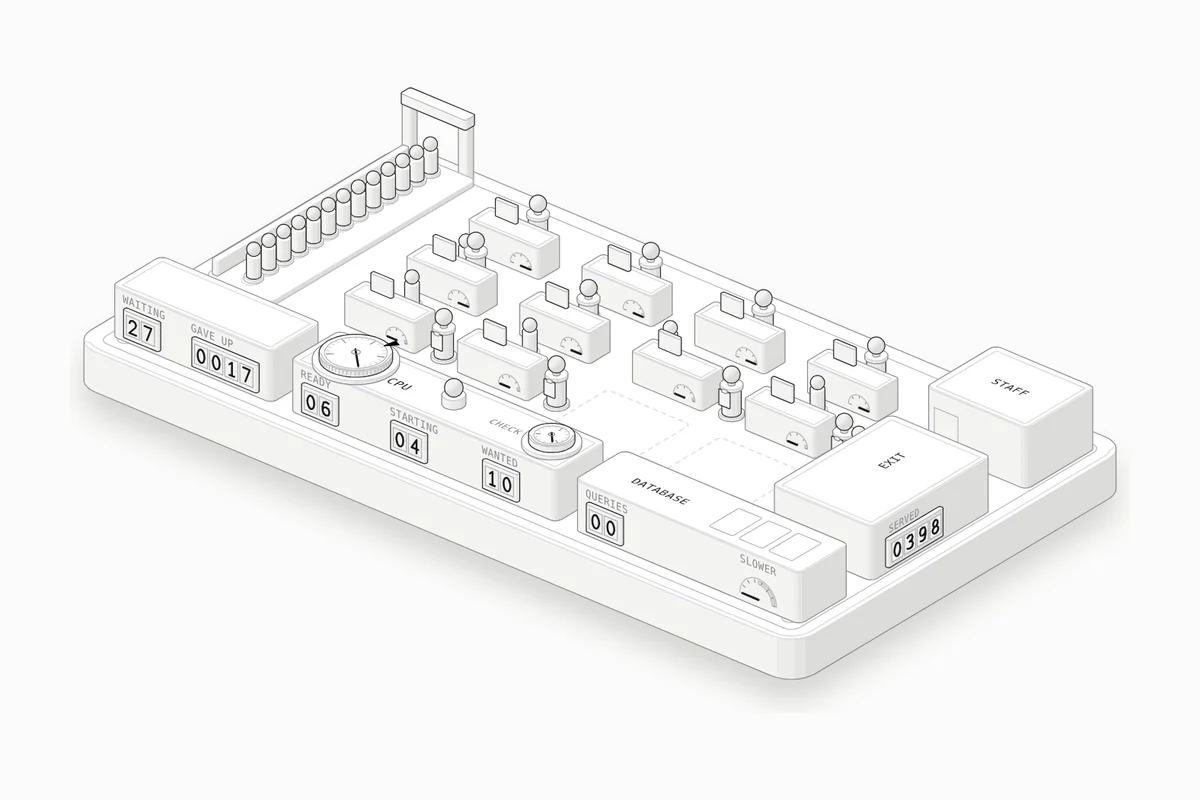
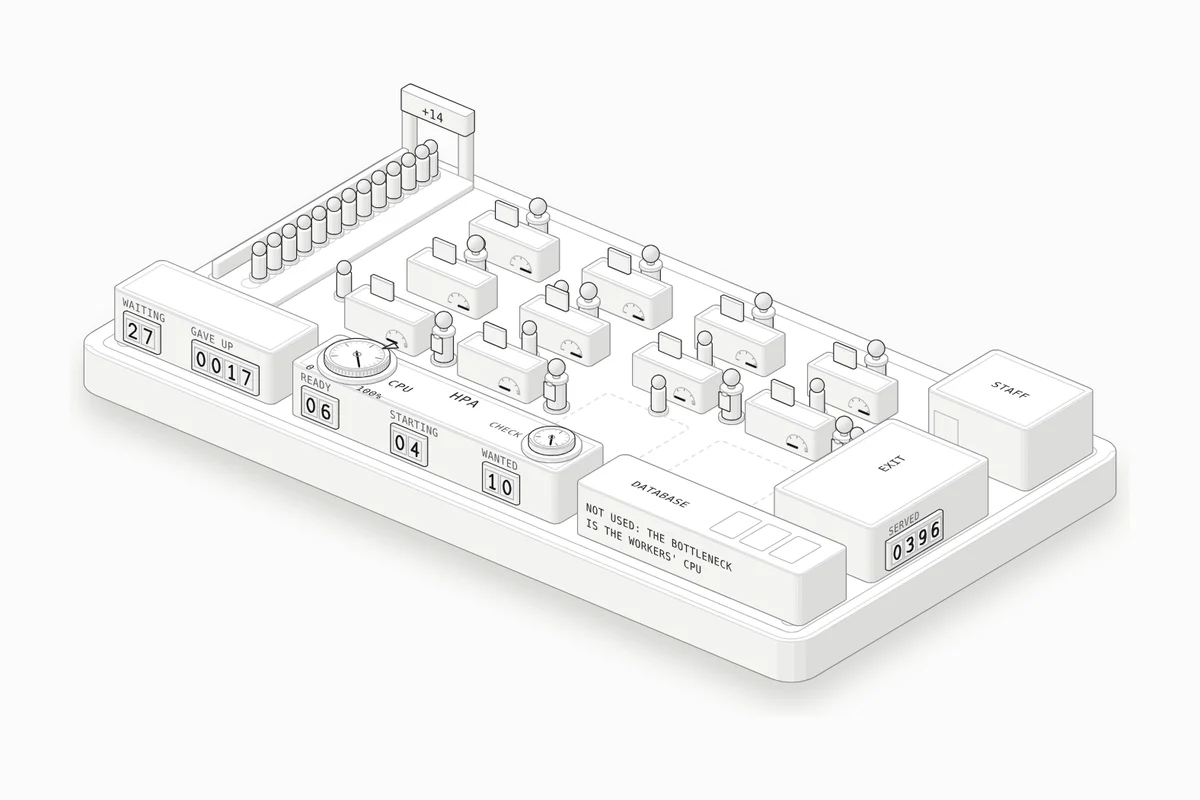
Lesson 75: fix review findings (+N at the gate, HPA named, lit only for give-ups, dial ends, idle database note, DESEADOS, page weight, shorter caption, Watch timing)
Claude-Session: https://claude.ai/code/session_01S5z2gCvevbrGU3fXgpGDmP

diff --git a/src/lessons/autoscaling/figure.ts b/src/lessons/autoscaling/figure.ts
@@ -3,11 +3,13 @@
 // line down the left side; twelve desk plots fill the floor (maxReplicas), and each desk that is open has one worker (a
 // pod) who serves one customer at a time, then the customer leaves through the exit stand on the right. A new worker
 // stands beside the desk with a clipboard until ready; a sent-home worker walks back to the staff room. Along the front:
-// the door counters (waiting, gave up), the autoscaler (its reading on a dial against the target, the next check, and
-// ready / starting / wanted counters) and the database (queries at once, how much slower each runs).
+// the door counters (waiting, gave up), the autoscaler, the HPA (its reading on a dial against the target, the next
+// check, and ready / starting / wanted counters) and the database (queries at once, how much slower each runs).
+// The workers are drawn once (page data) and placed at each desk by the live code: twelve copies of each pose would
+// double the page.
 // Built with the Anatomy kit (MIT, github.com/wheresryan22/anatomy) and the shared workbench parts.
 import * as k from "../../../workbench/kit.mjs";
-import { basePlate, digitCounter, person, figurine, dial, meter, faceText, lamp, litFill } from "../../../workbench/parts.mjs";
+import { basePlate, digitCounter, person, figurine, dial, meter, faceText, litFill } from "../../../workbench/parts.mjs";
 import { t } from "../../../workbench/i18n.mjs";
 import { shorthand } from "../../lib/draw";
 import { MAX_R } from "./sim";
@@ -49,13 +51,13 @@ const FRONT_Y = 15, FRONT_D = 20, FRONT_H = 15;
 const DOOR = { x: -116, y: FRONT_Y, w: 54, d: FRONT_D, r: 2 };
 const CTRL = { x: -56, y: FRONT_Y, w: 90, d: FRONT_D, r: 2 };
 const DB = { x: 40, y: FRONT_Y, w: 76, d: FRONT_D, r: 2 };
-export const READ_DIAL = { x: CTRL.x + 14, y: CTRL.y + 10, r: 9.5, from: -0.75 * Math.PI, span: 1.5 * Math.PI };
+export const READ_DIAL = { x: CTRL.x + 14, y: CTRL.y + 9.5, r: 8.5, from: -0.75 * Math.PI, span: 1.5 * Math.PI };
 export const TARGETS = [0.6, 0.75, 0.9];
-// The target: a small wedge just outside the dial's rim, at the target's place on the scale.
+// The target: a small hollow wedge just outside the dial's rim, at the target's place on the scale.
 function targetMark(frac) {
-  const d = READ_DIAL, a = d.from + frac * d.span, w = 0.09;
+  const d = READ_DIAL, a = d.from + frac * d.span, w = 0.12;
   const pt = (ang, r) => [d.x + Math.sin(ang) * r, d.y - Math.cos(ang) * r];
-  return k.pathOf([pt(a, d.r - 1.6), pt(a - w, d.r + 2.2), pt(a + w, d.r + 2.2)].map(([x, y]) => k.iso([x, y, FRONT_H + 3.3], P)), true);
+  return k.pathOf([pt(a, d.r - 1.4), pt(a - w, d.r + 2.6), pt(a + w, d.r + 2.6)].map(([x, y]) => k.iso([x, y, FRONT_H + 3.3], P)), true);
 }
 export const CHECK_DIAL = { x: CTRL.x + 80, y: CTRL.y + 10, r: 6 };
 
@@ -74,7 +76,7 @@ function plate() {
 }
 
 // The line: a low lane with a rail along its back side and a footprint for each place; the gate at its back end
-// where customers come in.
+// where customers come in, its lintel carrying a "+N" for those waiting beyond the drawn places.
 function lane() {
   const out = [S(k.slabOf(LANE, 0, LANE_H, P, 3, 0.3), { tone: "lo", crease: "none" })];
   out.push(L(Array.from({ length: LINE_SLOTS }, (_, i) => { const [x, y] = LINE_AT(i); return k.ring(x, y, 2.6, LANE_H, P, 14); }).join(""), { tone: "faint" }));
@@ -85,8 +87,9 @@ function gate() {
   // two posts and a lintel across the back of the lane
   const y = LANE.y + 2;
   const out = [];
-  for (const x of [LANE.x + 1.5, LANE.x + LANE.w - 1.5]) out.push(S(k.slabOf({ x: x - 1.5, y: y - 1.5, w: 3, d: 3, r: 0.4 }, 0, 18, P, 2), { tone: "mid", crease: "none" }));
-  out.push(S(k.slabOf({ x: LANE.x, y: y - 2, w: LANE.w, d: 4, r: 0.6 }, 18, 3, P, 2), { tone: "hi", crease: "lo" }));
+  for (const x of [LANE.x + 1.5, LANE.x + LANE.w - 1.5]) out.push(S(k.slabOf({ x: x - 1.5, y: y - 1.5, w: 3, d: 3, r: 0.4 }, 0, 17, P, 2), { tone: "mid", crease: "none" }));
+  out.push(S(k.slabOf({ x: LANE.x, y: y - 2, w: LANE.w, d: 4, r: 0.6 }, 17, 6, P, 2), { tone: "hi", crease: "lo" }));
+  out.push(faceText(P, [LANE.x + LANE.w / 2, y + 2, 18.3], "", { size: 3.8, tone: "hi", anchor: "middle", attr: "data-more" }));
   return out.join("");
 }
 
@@ -116,18 +119,18 @@ function plot(i) {
   const s = SLOTS[i];
   return `<g data-plot="${i}">${L(k.planOutline({ x: s.cx - DESK.w / 2 - 2, y: s.y - DESK.d - 9, w: DESK.w + 4, d: DESK.d + 18, r: 1.5 }, 0, P), { tone: "faint", dashed: true })}</g>`;
 }
-function worker(i) {
-  const s = SLOTS[i];
-  const behind = WORKER_AT(s);
-  // the slip a worker holds while its request waits on the database (the same slip person() draws for holding: "slip")
-  const sc = WORKER_SCALE, [x, y] = behind;
-  const slip = S(k.slabOf({ x: x - 4.2 * sc, y: y + 4.6 * sc, w: 8.4 * sc, d: 0.5 * sc, r: 0.15 * sc }, 7 * sc, 7 * sc, P, 1, 0.2 * sc), { tone: "hi", crease: "lo" });
-  return `<g data-worker="${i}" style="display:none">${person(P, behind, { scale: sc })}<g data-slip="${i}" style="display:none">${slip}</g></g>`;
+// A desk's worker and its newcomer: empty groups the live code fills with the drawings below and moves into place.
+const worker = (i) => `<g data-worker="${i}" style="display:none"></g>`;
+const newcomer = (i) => `<g data-new="${i}" style="display:none"></g>`;
+// The worker behind a desk, drawn at the origin, with the slip it holds while its request waits on the database (the
+// same slip person() draws for holding: "slip").
+export function deskWorkerSvg() {
+  const sc = WORKER_SCALE;
+  const slip = S(k.slabOf({ x: -4.2 * sc, y: 4.6 * sc, w: 8.4 * sc, d: 0.5 * sc, r: 0.15 * sc }, 7 * sc, 7 * sc, P, 1, 0.2 * sc), { tone: "hi", crease: "lo" });
+  return `${person(P, [0, 0, 0], { scale: sc })}<g data-slip style="display:none">${slip}</g>`;
 }
-function newcomer(i) {
-  const s = SLOTS[i];
-  return `<g data-new="${i}" style="display:none">${person(P, SIDE_AT(s), { scale: WORKER_SCALE, holding: "clipboard" })}</g>`;
-}
+// A new worker with a clipboard, drawn at the origin.
+export const newcomerSvg = () => person(P, [0, 0, 0], { scale: WORKER_SCALE, holding: "clipboard" });
 function desk(i) {
   const s = SLOTS[i];
   const plan = { x: s.cx - DESK.w / 2, y: s.y - DESK.d, w: DESK.w, d: DESK.d, r: 1 };
@@ -152,23 +155,24 @@ function door() {
   return out.join("");
 }
 
-// The autoscaler: the reading on a dial against the target (the lit wedge), the time to the next check on a small dial,
-// a lamp that lights when it changes the count, and its counters.
+// The autoscaler, the HPA: the reading on a dial against the target (a hollow wedge), the time to the next check on a
+// small dial, and its counters.
 function controller() {
   const out = [S(k.slabOf(CTRL, 0, FRONT_H, P, 3, 0.6), { tone: "mid" })];
   out.push(L(k.planOutline(k.insetPlan(CTRL, 2), FRONT_H, P), { tone: "faint" }));
   const d = READ_DIAL;
   out.push(dial(P, { x: d.x, y: d.y, z: FRONT_H, r: d.r, h: 3, ticks: 20, every: 5, from: d.from, span: d.span, name: "reading", value: 0.5 }));
   for (const frac of TARGETS) out.push(`<path class="as-target" data-target="${frac}"${frac === 0.6 ? "" : ' style="display:none"'} d="${targetMark(frac)}"/>`);
+  // the scale's ends: 0 at the front left, 100% at the front right
+  for (const [a, v, anchor] of [[d.from, "0", "end"], [d.from + d.span, "100%", "start"]]) out.push(faceText(P, [d.x + Math.sin(a) * (d.r + 3.2) + (anchor === "end" ? 0.8 : -0.8), d.y - Math.cos(a) * (d.r + 3.2) + 1.6, FRONT_H], v, { face: "top", size: CAP, tone: "hi", anchor }));
   out.push(dial(P, { x: CHECK_DIAL.x, y: CHECK_DIAL.y, z: FRONT_H, r: CHECK_DIAL.r, h: 3, ticks: 15, every: 5, name: "check", value: 0, knurl: false }));
   // words on the top, beside each dial
   out.push(`<g data-metric-word="cpu">${faceText(P, [d.x + 12, d.y + 2.6, FRONT_H], "CPU", { face: "top", size: CAP + 0.6, tone: "hi" })}</g>`);
   out.push(`<g data-metric-word="busy" style="display:none">${faceText(P, [d.x + 12, d.y + 2.6, FRONT_H], t("BUSY", "OCUPADO"), { face: "top", size: CAP + 0.6, tone: "hi" })}</g>`);
   out.push(faceText(P, [CHECK_DIAL.x - 10, CHECK_DIAL.y + 1.6, FRONT_H], t("CHECK", "REVISIÓN"), { face: "top", size: CAP, tone: "mid", anchor: "end" }));
-  out.push(`<g data-scale-lamp="off">${lamp(P, [CTRL.x + 47, CTRL.y + 10, FRONT_H], { r: 2.4 })}</g>`);
-  out.push(`<g data-scale-lamp="on" style="display:none">${litFill(lamp(P, [CTRL.x + 47, CTRL.y + 10, FRONT_H], { r: 2.4, lit: true }))}</g>`);
+  out.push(faceText(P, [CTRL.x + 47, CTRL.y + 7, FRONT_H], "HPA", { face: "top", size: CAP + 1.4, tone: "hi", anchor: "middle" }));
   const f = CTRL.y + CTRL.d;
-  const cols = [[CTRL.x + 5, "ready", t("READY", "LISTOS")], [CTRL.x + 35, "starting", t("STARTING", "ARRANCANDO")], [CTRL.x + 66, "wanted", t("WANTED", "PEDIDOS")]];
+  const cols = [[CTRL.x + 5, "ready", t("READY", "LISTOS")], [CTRL.x + 35, "starting", t("STARTING", "ARRANCANDO")], [CTRL.x + 66, "wanted", t("WANTED", "DESEADOS")]];
   for (const [x, name, words] of cols) {
     out.push(digitCounter(P, { x, y: f, z: 2.2, count: 2, w: 4.4, h: 5.8, gap: 0.7, pad: 1.2, name }));
     out.push(caption(x - 1.2, f, 11.4, words));
@@ -186,10 +190,16 @@ function database() {
   out.push(L(drawers.join(""), { tone: "lo" }));
   out.push(faceText(P, [DB.x + 21, DB.y + 11.6, FRONT_H], t("DATABASE", "BASE DE DATOS"), { face: "top", size: CAP + 0.4, tone: "hi", anchor: "middle" }));
   const f = DB.y + DB.d;
+  out.push(`<g data-db="on" style="display:none">`);
   out.push(digitCounter(P, { x: DB.x + 5, y: f, z: 2.2, count: 2, w: 4.4, h: 5.8, gap: 0.7, pad: 1.2, name: "queries" }));
   out.push(caption(DB.x + 3.8, f, 11.4, t("QUERIES", "CONSULTAS")));
   out.push(meter(P, { x: DB.x + 62, y: f, z: 2.2, r: 6.2, ticks: 7, zone: 0.5, name: "slow" }));
   out.push(caption(DB.x + 62, f, 11.4, t("SLOWER", "MÁS LENTA"), { anchor: "middle" }));
+  out.push(`</g><g data-db="off">`);
+  // with the workers' CPU as the bottleneck the requests make no queries: say so rather than show idle dials
+  out.push(caption(DB.x + 4, f, 8.2, t("NOT USED: THE BOTTLENECK", "SIN USO: EL CUELLO DE BOTELLA"), { tone: "hi" }));
+  out.push(caption(DB.x + 4, f, 3.6, t("IS THE WORKERS' CPU", "ES LA CPU DE LOS TRABAJADORES"), { tone: "hi" }));
+  out.push(`</g>`);
   return out.join("");
 }
 
@@ -211,8 +221,8 @@ export function buildFigure() {
     width: WIDTH,
     height: HEIGHT,
     label: t(
-      "A service floor with an autoscaler, on a base plate. Customers (requests) come in through a gate at the back left and wait in one line down the left side. Twelve desk plots fill the floor, the most workers the floor can hold; an open desk has one worker, a pod, who serves one customer at a time, and served customers leave through the exit stand on the right, which counts them. A new worker stands beside the desk with a clipboard until ready; a worker sent home walks back to the staff room at the back right. Along the front: the door counters for customers waiting and customers who gave up, the autoscaler with a dial showing the workers' average reading against a lit target mark, a small dial counting down to its next check and counters for ready, starting and wanted workers, and the database with a counter of queries running at once and a meter of how much slower each one runs.",
-      "Un piso de atención con un autoescalador, sobre una placa base. Los clientes (solicitudes) entran por una puerta atrás a la izquierda y esperan en una sola fila por el lado izquierdo. Doce lugares para escritorios llenan el piso, la mayor cantidad de trabajadores que cabe; un escritorio abierto tiene un trabajador, un pod, que atiende a un cliente a la vez, y los clientes atendidos salen por el puesto de salida de la derecha, que los cuenta. Un trabajador nuevo espera junto al escritorio con una tablilla hasta estar listo; un trabajador que se manda a casa vuelve caminando a la sala del personal, atrás a la derecha. Al frente: los contadores de la puerta para los clientes en espera y los que se rindieron, el autoescalador con un dial que muestra la lectura promedio de los trabajadores frente a una marca encendida del objetivo, un dial pequeño con la cuenta regresiva hasta su próxima revisión y contadores de trabajadores listos, arrancando y pedidos, y la base de datos con un contador de consultas al mismo tiempo y un medidor de cuánto más lenta corre cada una.",
+      "A service floor with an autoscaler, on a base plate. Customers (requests) come in through a gate at the back left and wait in one line down the left side. Twelve desk plots fill the floor, the most workers the floor can hold; an open desk has one worker, a pod, who serves one customer at a time, and served customers leave through the exit stand on the right, which counts them. A new worker stands beside the desk with a clipboard until ready; a worker sent home walks back to the staff room at the back right. Along the front: the door counters for customers waiting and customers who gave up, the autoscaler, marked HPA, with a dial from 0 to 100% showing the workers' average reading against a hollow target mark, a small dial counting down to its next check and counters for ready, starting and wanted workers, and the database with a counter of queries running at once and a meter of how much slower each one runs, or a note that it isn't used when the workers' CPU is the bottleneck. A tag on the gate's lintel counts the customers waiting beyond the drawn line.",
+      "Un piso de atención con un autoescalador, sobre una placa base. Los clientes (solicitudes) entran por una puerta atrás a la izquierda y esperan en una sola fila por el lado izquierdo. Doce lugares para escritorios llenan el piso, la mayor cantidad de trabajadores que cabe; un escritorio abierto tiene un trabajador, un pod, que atiende a un cliente a la vez, y los clientes atendidos salen por el puesto de salida de la derecha, que los cuenta. Un trabajador nuevo espera junto al escritorio con una tablilla hasta estar listo; un trabajador que se manda a casa vuelve caminando a la sala del personal, atrás a la derecha. Al frente: los contadores de la puerta para los clientes en espera y los que se rindieron, el autoescalador, marcado HPA, con un dial de 0 a 100% que muestra la lectura promedio de los trabajadores frente a una marca hueca del objetivo, un dial pequeño con la cuenta regresiva hasta su próxima revisión y contadores de trabajadores listos, arrancando y deseados, y la base de datos con un contador de consultas al mismo tiempo y un medidor de cuánto más lenta corre cada una, o una nota de que no se usa cuando el cuello de botella es la CPU de los trabajadores. Una etiqueta en el dintel de la puerta cuenta los clientes que esperan más allá de la fila dibujada.",
     ),
     body: [
       plate(),
@@ -230,12 +240,12 @@ export function buildFigure() {
 }
 
 export const FIGURE_CSS = `
-.as-target{fill:var(--anatomy-lit);stroke:var(--anatomy-lit);stroke-width:.6;stroke-linejoin:round}
+.as-target{fill:var(--anatomy-paper);stroke:var(--anatomy-hi);stroke-width:.8;stroke-linejoin:round}
 .iso-stage [data-layer] *{pointer-events:none}
 `;
 
 export const GEOMETRY = {
   SLOTS, WORKER: SLOTS.map(WORKER_AT), SIDE: SLOTS.map(SIDE_AT), SEAT: SLOTS.map(SEAT_AT), ROWS, DESK_D: DESK.d,
   LINE: Array.from({ length: LINE_SLOTS }, (_, i) => LINE_AT(i)), ENTRY: ENTRY_AT, EXIT_X: EXIT.x + 1, EXIT_Y: [EXIT.y + 4, EXIT.y + EXIT.d - 4],
-  STAFF: STAFF_AT, READ_DIAL, FRONT_H, SLOW_MAX,
+  STAFF: STAFF_AT, READ_DIAL, FRONT_H, SLOW_MAX, LINE_SLOTS,
 };

diff --git a/src/lessons/autoscaling/page.ts b/src/lessons/autoscaling/page.ts
@@ -4,7 +4,7 @@ import { t } from "../../i18n";
 import { defineLesson, withResults } from "../types";
 import { n0, one, pct } from "../../lib/format";
 import { LIT_FILL_CSS } from "../../../workbench/parts.mjs";
-import { buildFigure, customerSvg, walkerSvg, P, GEOMETRY, FIGURE_CSS } from "./figure";
+import { buildFigure, customerSvg, walkerSvg, deskWorkerSvg, newcomerSvg, P, GEOMETRY, FIGURE_CSS } from "./figure";
 import { startupRun, targetRun, flapRun, floorRun, dbRun, SPIKE, FLOOR, DBRUN, PATIENCE, SYNC, READ_WINDOW, MAX_R, SEEDS, KNEE } from "./sim";
 
 // Experiment results, computed at build time from the same model the page runs (twelve seeds each).
@@ -136,7 +136,7 @@ const EXPERIMENTS = [
       "A lull reads about a third of what the burst did, far outside the tolerance, so with no window the autoscaler sends workers home at the next check; the next burst then lands on a few workers and waits a start-up for the rest. That's flapping: capacity always a step behind, and every new pod pays its start-up again (and cold caches, new connections). The scale-down stabilization window makes it scale down only to the highest recommendation of the last 5 minutes, so a 2-minute lull doesn't shrink the floor. That's why Kubernetes stabilizes scale-down for 300 s by default but scale-up not at all. The price here is " + more(RESULTS.flap.w300.podMin, RESULTS.flap.w0.podMin) + " more pod-minutes. Make the window longer than the gaps between your bursts, or limit how fast it may scale down (behavior policies, e.g. one pod a minute).",
       "Una calma lee cerca de un tercio de lo que leía la ráfaga, muy fuera de la tolerancia, así que sin ventana el autoescalador manda trabajadores a casa en la siguiente revisión; la próxima ráfaga cae sobre pocos trabajadores y espera un arranque por el resto. Eso es oscilar (flapping): la capacidad siempre va un paso atrás, y cada pod nuevo vuelve a pagar su arranque (y cachés en frío, conexiones nuevas). La ventana de estabilización de la reducción hace que solo reduzca hasta la recomendación más alta de los últimos 5 minutos, así que una calma de 2 minutos no achica el piso. Por eso Kubernetes estabiliza la reducción 300 s por defecto y el aumento nada. El precio aquí es " + more(RESULTS.flap.w300.podMin, RESULTS.flap.w0.podMin) + " más de minutos de pod. Haz la ventana más larga que las pausas entre tus ráfagas, o limita qué tan rápido puede reducir (las políticas de behavior, por ejemplo un pod por minuto).",
     ),
-    watch: { traffic: "bursts", startup: "45", target: "0.6", window: "0", min: "2", metric: "cpu", db: "app", speed: 3 },
+    watch: { traffic: "bursts", startup: "45", target: "0.6", window: "0", min: "2", metric: "cpu", db: "app", speed: 8 },
   },
   {
     id: "floor",
@@ -206,13 +206,13 @@ export default defineLesson({
     plate: {
       title: t("Service floor", "Piso de atención"),
       keys: [
-        { mark: "lit", label: t("A customer who gave up; the target mark on the autoscaler's dial; its lamp when it changes the count", "Un cliente que se rindió; la marca del objetivo en el dial del autoescalador; su lámpara cuando cambia la cantidad") },
+        { mark: "lit", label: t("A customer who gives up, and the GAVE UP counter as it counts them", "Un cliente que se rinde, y el contador ABANDONOS cuando lo cuenta") },
         { mark: "raised", label: t("Workers (pods): behind the desk when ready, beside it with a clipboard while starting", "Trabajadores (pods): detrás del escritorio cuando están listos, al lado con una tablilla mientras arrancan") },
         { mark: "flat", label: t("Desk plots: " + MAX_R + " places, the most workers the floor holds (maxReplicas)", "Lugares para escritorios: " + MAX_R + ", la mayor cantidad de trabajadores que cabe (maxReplicas)") },
       ],
       caption: t(
-        "Customers (requests) come in through the gate at the back left and wait in the line; one who has waited " + PATIENCE + " s gives up, lights and counts under GAVE UP (an error). Each open desk has one worker, who serves one customer at a time: a request is 1 s of CPU (0.5 to 1.5 s), so a worker serves about one a second. Served customers leave through the exit stand on the right. The meter on each desk is that worker's reading. The autoscaler's dial shows the workers' average reading over the last " + READ_WINDOW + " s against the lit target mark; the small dial counts down to the next check, every " + SYNC + " s. At a check it wants ceil(workers × reading ÷ target), within a 10% tolerance; scale-up at most doubles the count (or adds 4), and scale-down goes only as low as the highest count wanted during the window. A new worker stands beside its desk with a clipboard until ready; one sent home finishes its customer and walks back to the staff room. A worker can't use more CPU than it requested, so its reading tops out at 100%. With the database as the bottleneck, a request is 0.25 s of CPU and then a query, during which the worker holds a slip; the database meter shows how much slower each query runs with that many at once. Rates and times are illustrative and round.",
-        "Los clientes (solicitudes) entran por la puerta de atrás a la izquierda y esperan en la fila; quien ya esperó " + PATIENCE + " s se rinde, se enciende y cuenta en ABANDONOS (un error). Cada escritorio abierto tiene un trabajador, que atiende a un cliente a la vez: una solicitud es 1 s de CPU (de 0.5 a 1.5 s), así que un trabajador atiende cerca de una por segundo. Los clientes atendidos salen por el puesto de salida de la derecha. El medidor de cada escritorio es la lectura de ese trabajador. El dial del autoescalador muestra la lectura promedio de los trabajadores en los últimos " + READ_WINDOW + " s frente a la marca encendida del objetivo; el dial pequeño cuenta hasta la próxima revisión, cada " + SYNC + " s. En una revisión quiere ceil(trabajadores × lectura ÷ objetivo), con una tolerancia de 10%; un aumento como mucho duplica la cantidad (o suma 4), y una reducción solo baja hasta la cantidad más alta pedida durante la ventana. Un trabajador nuevo espera junto a su escritorio con una tablilla hasta estar listo; uno que se manda a casa termina con su cliente y vuelve caminando a la sala del personal. Un trabajador no puede usar más CPU de la que solicitó, así que su lectura llega como mucho a 100%. Con la base de datos como cuello de botella, una solicitud es 0.25 s de CPU y después una consulta, durante la cual el trabajador sostiene una papeleta; el medidor de la base de datos muestra cuánto más lenta corre cada consulta con tantas a la vez. Las tasas y los tiempos son ilustrativos y redondos.",
+        "Customers (requests) come in through the gate at the back left and wait in the line; one who has waited " + PATIENCE + " s gives up and counts under GAVE UP (an error). Each open desk has one worker, a pod, who serves one customer at a time, about one a second; the meter on the desk is that worker's reading. The autoscaler, the HPA, shows the workers' average reading over the last " + READ_WINDOW + " s against the target mark; the small dial counts down to the next check, every " + SYNC + " s. At a check it wants ceil(workers × reading ÷ target), and scales down only as low as the most it wanted during the window. A new worker stands beside its desk with a clipboard until ready; one sent home walks back to the staff room. With the database as the bottleneck, a worker holds a slip while its query runs.",
+        "Los clientes (solicitudes) entran por la puerta de atrás a la izquierda y esperan en la fila; quien ya esperó " + PATIENCE + " s se rinde y cuenta en ABANDONOS (un error). Cada escritorio abierto tiene un trabajador, un pod, que atiende a un cliente a la vez, cerca de uno por segundo; el medidor del escritorio es su lectura. El autoescalador, el HPA, muestra la lectura promedio de los trabajadores en los últimos " + READ_WINDOW + " s frente a la marca del objetivo; el dial pequeño cuenta hasta la próxima revisión, cada " + SYNC + " s. En una revisión desea ceil(trabajadores × lectura ÷ objetivo), y solo reduce hasta lo máximo que deseó durante la ventana. Un trabajador nuevo espera junto a su escritorio con una tablilla hasta estar listo; uno que se manda a casa vuelve a la sala del personal. Con la base de datos como cuello de botella, el trabajador sostiene una papeleta mientras corre su consulta.",
       ),
       stage: { "data-floor": "" },
       label: t("Autoscaling simulation. Space pauses or resumes.", "Simulación de autoescalado. Espacio pausa o reanuda."),
@@ -220,7 +220,7 @@ export default defineLesson({
     svg: buildFigure(),
     stats: [
       ["pods", t("Workers ready / starting", "Trabajadores listos / arrancando")],
-      ["wanted", t("Wanted", "Pedidos")],
+      ["wanted", t("Wanted", "Deseados")],
       ["reading", t("Reading", "Lectura")],
       ["waiting", t("Waiting", "En espera")],
       ["gaveup", t("Gave up", "Abandonos")],
@@ -237,8 +237,8 @@ export default defineLesson({
       { speed: true },
       { actions: [["spike", t("Spike now", "Pico ahora"), { primary: true }], ["reset", t("Start over", "Empezar de nuevo")], ["pause", t("Pause", "Pausa")]], label: t("Do something", "Haz algo") },
     ],
-    note: t("Spike now sends 7 a second (5 with the database as the bottleneck) for 3 minutes. The Spikes setting sends the same for 4 minutes in every 12; Daily wave goes from 3 to 7 a second and back over 12 minutes. Changing a setting starts the run again.",
-      "Pico ahora manda 7 por segundo (5 con la base de datos como cuello de botella) durante 3 minutos. El ajuste Picos manda lo mismo durante 4 minutos de cada 12; Ola diaria va de 3 a 7 por segundo y vuelve en 12 minutos. Cambiar un ajuste reinicia la ejecución."),
+    note: t("Spike now sends 7 a second (5 with the database as the bottleneck) for 3 minutes. The Spikes setting sends the same for 4 minutes in every 12; Daily wave goes from 3 to 7 a second and back over 12 minutes. Changing a setting starts the run again. A request is 1 s of CPU (0.5 to 1.5 s). The HPA leaves the count alone within a 10% tolerance, and a scale-up at most doubles it (or adds 4). A worker can't use more CPU than it requested, so its reading tops out at 100%. With the database as the bottleneck, a request is 0.25 s of CPU and then a query; the database meter shows how much slower each query runs with that many at once. Rates and times are illustrative and round.",
+      "Pico ahora manda 7 por segundo (5 con la base de datos como cuello de botella) durante 3 minutos. El ajuste Picos manda lo mismo durante 4 minutos de cada 12; Ola diaria va de 3 a 7 por segundo y vuelve en 12 minutos. Cambiar un ajuste reinicia la ejecución. Una solicitud es 1 s de CPU (de 0.5 a 1.5 s). El HPA no cambia la cantidad dentro de una tolerancia de 10%, y un aumento como mucho la duplica (o suma 4). Un trabajador no puede usar más CPU de la que solicitó, así que su lectura llega como mucho a 100%. Con la base de datos como cuello de botella, una solicitud es 0.25 s de CPU y después una consulta; el medidor de la base de datos muestra cuánto más lenta corre cada consulta con tantas a la vez. Las tasas y los tiempos son ilustrativos y redondos."),
   },
   predict: { intro: t("Each experiment changes one thing. Choose what you expect <em>before</em> running it. Results come from the same model as the machine, averaged over " + SEEDS.length + " seeded runs.", "Cada experimento cambia una sola cosa. Elige lo que esperas <em>antes</em> de ejecutarlo. Los resultados salen del mismo modelo que la máquina, promediados sobre " + SEEDS.length + " ejecuciones con semilla fija."), experiments: withResults(EXPERIMENTS, RUNS) },
   explain: { questions: QUESTIONS },
@@ -251,5 +251,7 @@ ${LIT_FILL_CSS}
     G: GEOMETRY,
     CUST_SVG: customerSvg(),
     WALKER_SVG: walkerSvg(),
+    DESK_WORKER_SVG: deskWorkerSvg(),
+    NEWCOMER_SVG: newcomerSvg(),
   },
 });

diff --git a/src/lessons/autoscaling/live.ts b/src/lessons/autoscaling/live.ts
@@ -4,11 +4,11 @@
 import { translateAlong, depthOf } from "../../../workbench/vendor-anatomy/kit/iso-kit.mjs";
 import * as WB from "../../runtime/wb";
 import { L, T } from "../../runtime/wb";
-import { playPause, show } from "../../runtime/dom";
+import { playPause, show, setText } from "../../runtime/dom";
 import { lerp } from "../../lib/tween";
 import { makeFloor, SYNC, MAX_R } from "./sim";
 
-export default function mount({ P, G, CUST_SVG, WALKER_SVG }, root) {
+export default function mount({ P, G, CUST_SVG, WALKER_SVG, DESK_WORKER_SVG, NEWCOMER_SVG }, root) {
   const { stage, svg } = root.figure;
   const q = (s) => svg.querySelector(s);
   const qa = (s) => [...svg.querySelectorAll(s)];
@@ -24,9 +24,14 @@ export default function mount({ P, G, CUST_SVG, WALKER_SVG }, root) {
   const counters = Object.fromEntries(["waiting", "gaveup", "ready", "starting", "wanted", "queries", "served"].map((n) => [n, WB.counter(svg, n, P)]));
   const readDial = WB.dial(svg, "reading", P), checkDial = WB.dial(svg, "check", P), slowMeter = WB.meter(svg, "slow", P);
   const targets = qa("[data-target]"), words = qa("[data-metric-word]");
-  const lampOn = q('[data-scale-lamp="on"]'), lampOff = q('[data-scale-lamp="off"]');
   const gaveBox = q('[data-counter="gaveup"] .iso-solid');
-  const slips = idx.map((i) => q('[data-slip="' + i + '"]'));
+  const moreText = q("[data-more]"), dbOn = q('[data-db="on"]'), dbOff = q('[data-db="off"]');
+  // each desk's worker and newcomer: one drawing each, placed at the desk
+  idx.forEach((i) => {
+    workers[i].innerHTML = DESK_WORKER_SVG; workers[i].setAttribute("transform", translateAlong(P, G.WORKER[i]));
+    newcomers[i].innerHTML = NEWCOMER_SVG; newcomers[i].setAttribute("transform", translateAlong(P, G.SIDE[i]));
+  });
+  const slips = idx.map((i) => workers[i].querySelector("[data-slip]"));
   const poses = idx.map(() => "");
 
   // where a moving thing is drawn: behind the desks of the first row whose desks are not behind it
@@ -72,6 +77,7 @@ export default function mount({ P, G, CUST_SVG, WALKER_SVG }, root) {
     prevState = model.slots.map((p) => (p ? p.state : null));
     targets.forEach((el) => show(el, el.getAttribute("data-target") === String(Number(cfg.target))));
     words.forEach((el) => show(el, el.getAttribute("data-metric-word") === cfg.metric));
+    show(dbOn, cfg.db === "db"); show(dbOff, cfg.db !== "db");
     paint(0, true);
   }
 
@@ -86,11 +92,11 @@ export default function mount({ P, G, CUST_SVG, WALKER_SVG }, root) {
         lastScale = e.t;
         const m = L(metricName());
         note = { t: e.t, text: e.type === "up"
-          ? T("check: " + m + " " + pctOf(e.reading) + " vs target " + pctOf(Number(cfg.target)) + " → wants " + e.to + " (had " + e.from + ") · new ones start", "revisión: " + m + " " + pctOf(e.reading) + " vs objetivo " + pctOf(Number(cfg.target)) + " → pide " + e.to + " (había " + e.from + ") · los nuevos arrancan")
+          ? T("check: " + m + " " + pctOf(e.reading) + " vs target " + pctOf(Number(cfg.target)) + " → wants " + e.to + " (had " + e.from + ") · new ones start", "revisión: " + m + " " + pctOf(e.reading) + " vs objetivo " + pctOf(Number(cfg.target)) + " → desea " + e.to + " (había " + e.from + ") · los nuevos arrancan")
           : T("check: " + m + " " + pctOf(e.reading) + " → down to " + e.to + " (had " + e.from + ")", "revisión: " + m + " " + pctOf(e.reading) + " → baja a " + e.to + " (había " + e.from + ")") };
       }
       if (e.type === "check" && e.desired === e.was && e.reading < Number(cfg.target) * 0.9 && e.was > model.minAt(e.t) && Number(cfg.window) > 0 && (!note || e.t - note.t > 6)) {
-        note = { t: e.t, text: T("check: " + L(metricName()) + " " + pctOf(e.reading) + " · the window keeps " + e.was + " (most wanted in the last " + cfg.window + " s)", "revisión: " + L(metricName()) + " " + pctOf(e.reading) + " · la ventana mantiene " + e.was + " (lo más pedido en los últimos " + cfg.window + " s)") };
+        note = { t: e.t, text: T("check: " + L(metricName()) + " " + pctOf(e.reading) + " · the window keeps " + e.was + " (most wanted in the last " + cfg.window + " s)", "revisión: " + L(metricName()) + " " + pctOf(e.reading) + " · la ventana mantiene " + e.was + " (el máximo deseado en los últimos " + cfg.window + " s)") };
       }
       if (e.type === "spike") note = { t: e.t, text: T("spike: " + e.rate + " customers a second for " + e.secs / 60 + " minutes", "pico: " + e.rate + " clientes por segundo durante " + e.secs / 60 + " minutos") };
     }
@@ -112,8 +118,9 @@ export default function mount({ P, G, CUST_SVG, WALKER_SVG }, root) {
     scanLog();
     const now = performance.now();
     for (const r of recs.values()) r.seen = false;
-    // the line: the first LINE slots
+    // the line: the first LINE slots, and "+N" on the gate for the rest
     const line = model.line;
+    setText(moreText, line.length > G.LINE.length ? "+" + (line.length - G.LINE.length) : "");
     for (let i = 0; i < Math.min(line.length, G.LINE.length); i++) {
       const c = line[i];
       place("c" + c.id, "cust", G.LINE[i], false, clock - c.born < 1.5 && !snap);
@@ -185,8 +192,6 @@ export default function mount({ P, G, CUST_SVG, WALKER_SVG }, root) {
     const reading = n ? sum / n : 0;
     readDial.set(reading);
     checkDial.set(Math.max(0, Math.min(1, (model.nextCheck - clock) / SYNC)));
-    const lit = clock - lastScale < 2.5;
-    show(lampOn, lit); show(lampOff, !lit);
     const out = clock - lastGaveUp < 2;
     if (gaveBox) { gaveBox.toggleAttribute("data-lit", out); gaveBox.toggleAttribute("data-lit-fill", out); }
     const st = model.st;
@@ -234,7 +239,8 @@ export default function mount({ P, G, CUST_SVG, WALKER_SVG }, root) {
   root.on("watch", (w) => {
     for (const name of ["traffic", "startup", "target", "window", "min", "metric", "db"]) set(name, w[name], true);
     set("speed", String(w.speed || 1));
-    restart(w.traffic === "bursts" ? 100 : 45);
+    // start inside the action: 15 s into the spike, or 10 s into a lull of the swings, so the outcome shows within seconds
+    restart(w.traffic === "bursts" ? 130 : 75);
     if (loop.paused) loop.setPaused(false);
   });
 
